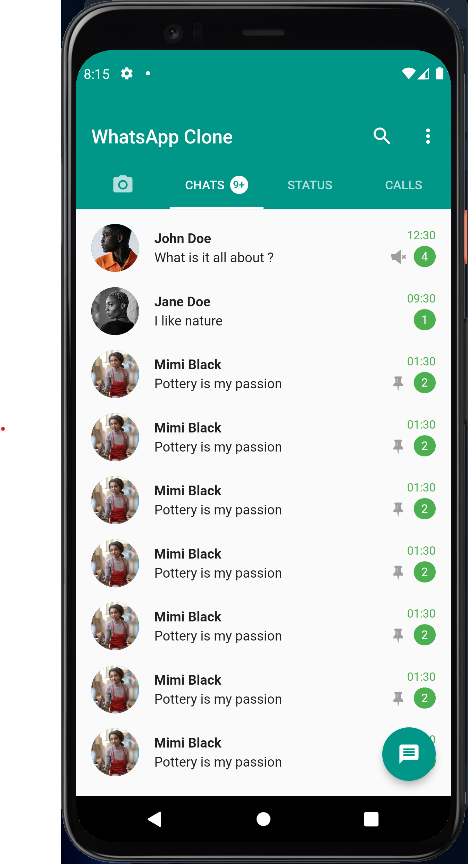
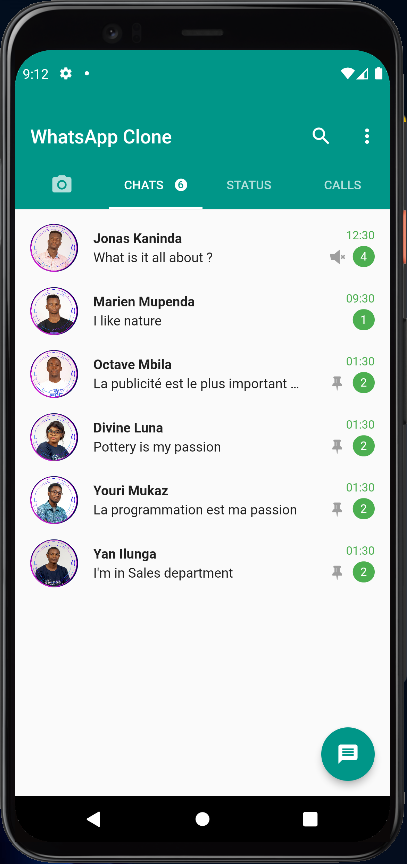
updating android screenshots

diff --git a/lib/whatsapp/dummy_data.dart b/lib/whatsapp/dummy_data.dart
@@ -1,7 +1,7 @@
 List<Map<String, dynamic>> chatsData = [
   {
-    "thumb": "assets/images/profiles/p1.jpg",
-    "user": "John Doe",
+    "thumb": "assets/images/profiles/jonas.png",
+    "user": "Jonas Kaninda",
     "message": "What is it all about ?",
     "date": "12:30",
     "count": 4,
@@ -9,8 +9,8 @@ List<Map<String, dynamic>> chatsData = [
     "pin": false,
   },
   {
-    "thumb": "assets/images/profiles/p2.jpg",
-    "user": "Jane Doe",
+    "thumb": "assets/images/profiles/marien.png",
+    "user": "Marien Mupenda",
     "message": "I like nature",
     "date": "09:30",
     "count": 1,
@@ -18,8 +18,17 @@ List<Map<String, dynamic>> chatsData = [
     "pin": false,
   },
   {
-    "thumb": "assets/images/profiles/p3.jpg",
-    "user": "Mimi Black",
+    "thumb": "assets/images/profiles/octave.png",
+    "user": "Octave Mbila",
+    "message": "La publicité est le plus important facteur",
+    "date": "01:30",
+    "count": 2,
+    "mute": false,
+    "pin": true,
+  },
+  {
+    "thumb": "assets/images/profiles/divine.png",
+    "user": "Divine Luna",
     "message": "Pottery is my passion",
     "date": "01:30",
     "count": 2,
@@ -27,158 +36,42 @@ List<Map<String, dynamic>> chatsData = [
     "pin": true,
   },
   {
-    "thumb": "assets/images/profiles/p3.jpg",
-    "user": "Mimi Black",
-    "message": "Pottery is my passion",
+    "thumb": "assets/images/profiles/youri.png",
+    "user": "Youri Mukaz",
+    "message": "La programmation est ma passion",
     "date": "01:30",
     "count": 2,
     "mute": false,
     "pin": true,
   },
   {
-    "thumb": "assets/images/profiles/p3.jpg",
-    "user": "Mimi Black",
-    "message": "Pottery is my passion",
+    "thumb": "assets/images/profiles/yan.png",
+    "user": "Yan Ilunga",
+    "message": "I'm in Sales department",
     "date": "01:30",
     "count": 2,
     "mute": false,
     "pin": true,
   },
-  {
-    "thumb": "assets/images/profiles/p3.jpg",
-    "user": "Mimi Black",
-    "message": "Pottery is my passion",
-    "date": "01:30",
-    "count": 2,
-    "mute": false,
-    "pin": true,
-  },
-  {
-    "thumb": "assets/images/profiles/p3.jpg",
-    "user": "Mimi Black",
-    "message": "Pottery is my passion",
-    "date": "01:30",
-    "count": 2,
-    "mute": false,
-    "pin": true,
-  },
-  {
-    "thumb": "assets/images/profiles/p3.jpg",
-    "user": "Mimi Black",
-    "message": "Pottery is my passion",
-    "date": "01:30",
-    "count": 2,
-    "mute": false,
-    "pin": true,
-  },
-  {
-    "thumb": "assets/images/profiles/p3.jpg",
-    "user": "Mimi Black",
-    "message": "Pottery is my passion",
-    "date": "01:30",
-    "count": 2,
-    "mute": false,
-    "pin": true,
-  },
-  {
-    "thumb": "assets/images/profiles/p3.jpg",
-    "user": "Mimi Black",
-    "message": "Pottery is my passion",
-    "date": "01:30",
-    "count": 2,
-    "mute": false,
-    "pin": true,
-  },
-  {
-    "thumb": "assets/images/profiles/p3.jpg",
-    "user": "Mimi Black",
-    "message": "Pottery is my passion",
-    "date": "01:30",
-    "count": 2,
-    "mute": false,
-    "pin": true,
-  },
-  {
-    "thumb": "assets/images/profiles/p3.jpg",
-    "user": "Mimi Black",
-    "message": "Pottery is my passion",
-    "date": "01:30",
-    "count": 2,
-    "mute": false,
-    "pin": true,
-  },
-  {
-    "thumb": "assets/images/profiles/p3.jpg",
-    "user": "Mimi Black",
-    "message": "Pottery is my passion",
-    "date": "01:30",
-    "count": 2,
-    "mute": false,
-    "pin": true,
-  },
-  {
-    "thumb": "assets/images/profiles/p3.jpg",
-    "user": "Mimi Black",
-    "message": "Pottery is my passion",
-    "date": "01:30",
-    "count": 2,
-    "mute": false,
-    "pin": true,
-  },
-  {
-    "thumb": "assets/images/profiles/p3.jpg",
-    "user": "Mimi Black",
-    "message": "Pottery is my passion",
-    "date": "01:30",
-    "count": 2,
-    "mute": false,
-    "pin": true,
-  },
-  {
-    "thumb": "assets/images/profiles/p3.jpg",
-    "user": "Mimi Black",
-    "message": "Pottery is my passion",
-    "date": "01:30",
-    "count": 2,
-    "mute": false,
-    "pin": true,
-  },
-  {
-    "thumb": "assets/images/profiles/p3.jpg",
-    "user": "Mimi Black",
-    "message": "Pottery is my passion",
-    "date": "01:30",
-    "count": 2,
-    "mute": false,
-    "pin": true,
-  },
-  {
-    "thumb": "assets/images/profiles/p3.jpg",
-    "user": "Mimi Black",
-    "message": "Pottery is my passion",
-    "date": "01:30",
-    "count": 2,
-    "mute": false,
-    "pin": true,
-  },
+
 ];
 
 List<Map<String, dynamic>> statusData = [
   {
-    "thumb": "assets/images/profiles/p3.jpg",
-    "user": "Mimi Black",
+    "thumb": "assets/images/profiles/divine.png",
+    "user": "Divine Luna",
     "last": "01 hour ago",
     "count": 2,
   },
   {
-    "thumb": "assets/images/profiles/p1.jpg",
-    "user": "John Doe",
+    "thumb": "assets/images/profiles/jonas.png",
+    "user": "Jonas Kaninda",
     "last": "12 minutes ago",
     "count": 4,
   },
   {
-    "thumb": "assets/images/profiles/p2.jpg",
-    "user": "Jane Doe",
+    "thumb": "assets/images/profiles/yan.png",
+    "user": "Yan Ilunga",
     "last": "09 minutes ago",
     "count": 1,
   },
@@ -186,24 +79,24 @@ List<Map<String, dynamic>> statusData = [
 
 List<Map<String, dynamic>> callsData = [
   {
-    "thumb": "assets/images/profiles/p3.jpg",
-    "user": "Mimi Black",
+    "thumb": "assets/images/profiles/divine.png",
+    "user": "Divine Luna",
     "last": "Today, 14:30",
     "count": 2,
     "direction": "in",
     "missed": true,
   },
   {
-    "thumb": "assets/images/profiles/p1.jpg",
-    "user": "John Doe",
+    "thumb": "assets/images/profiles/youri.png",
+    "user": "Youri Mukaz",
     "last": "Today, 08:30",
     "count": 4,
     "direction": "in",
     "missed": false,
   },
   {
-    "thumb": "assets/images/profiles/p2.jpg",
-    "user": "Jane Doe",
+    "thumb": "assets/images/profiles/jonas.png",
+    "user": "Jonas Kaninda",
     "last": "Yesterday, 21:10",
     "count": 1,
     "direction": "out",

diff --git a/lib/whatsapp/pages/status/status_screen.dart b/lib/whatsapp/pages/status/status_screen.dart
@@ -22,7 +22,7 @@ class StatusScreen extends StatelessWidget {
                 children: [
                   const CircleAvatar(
                     backgroundImage:
-                        AssetImage("assets/images/profiles/baby.jpg"),
+                        AssetImage("assets/images/profiles/francis.jpg"),
                     radius: 25,
                   ),
                   Positioned(
